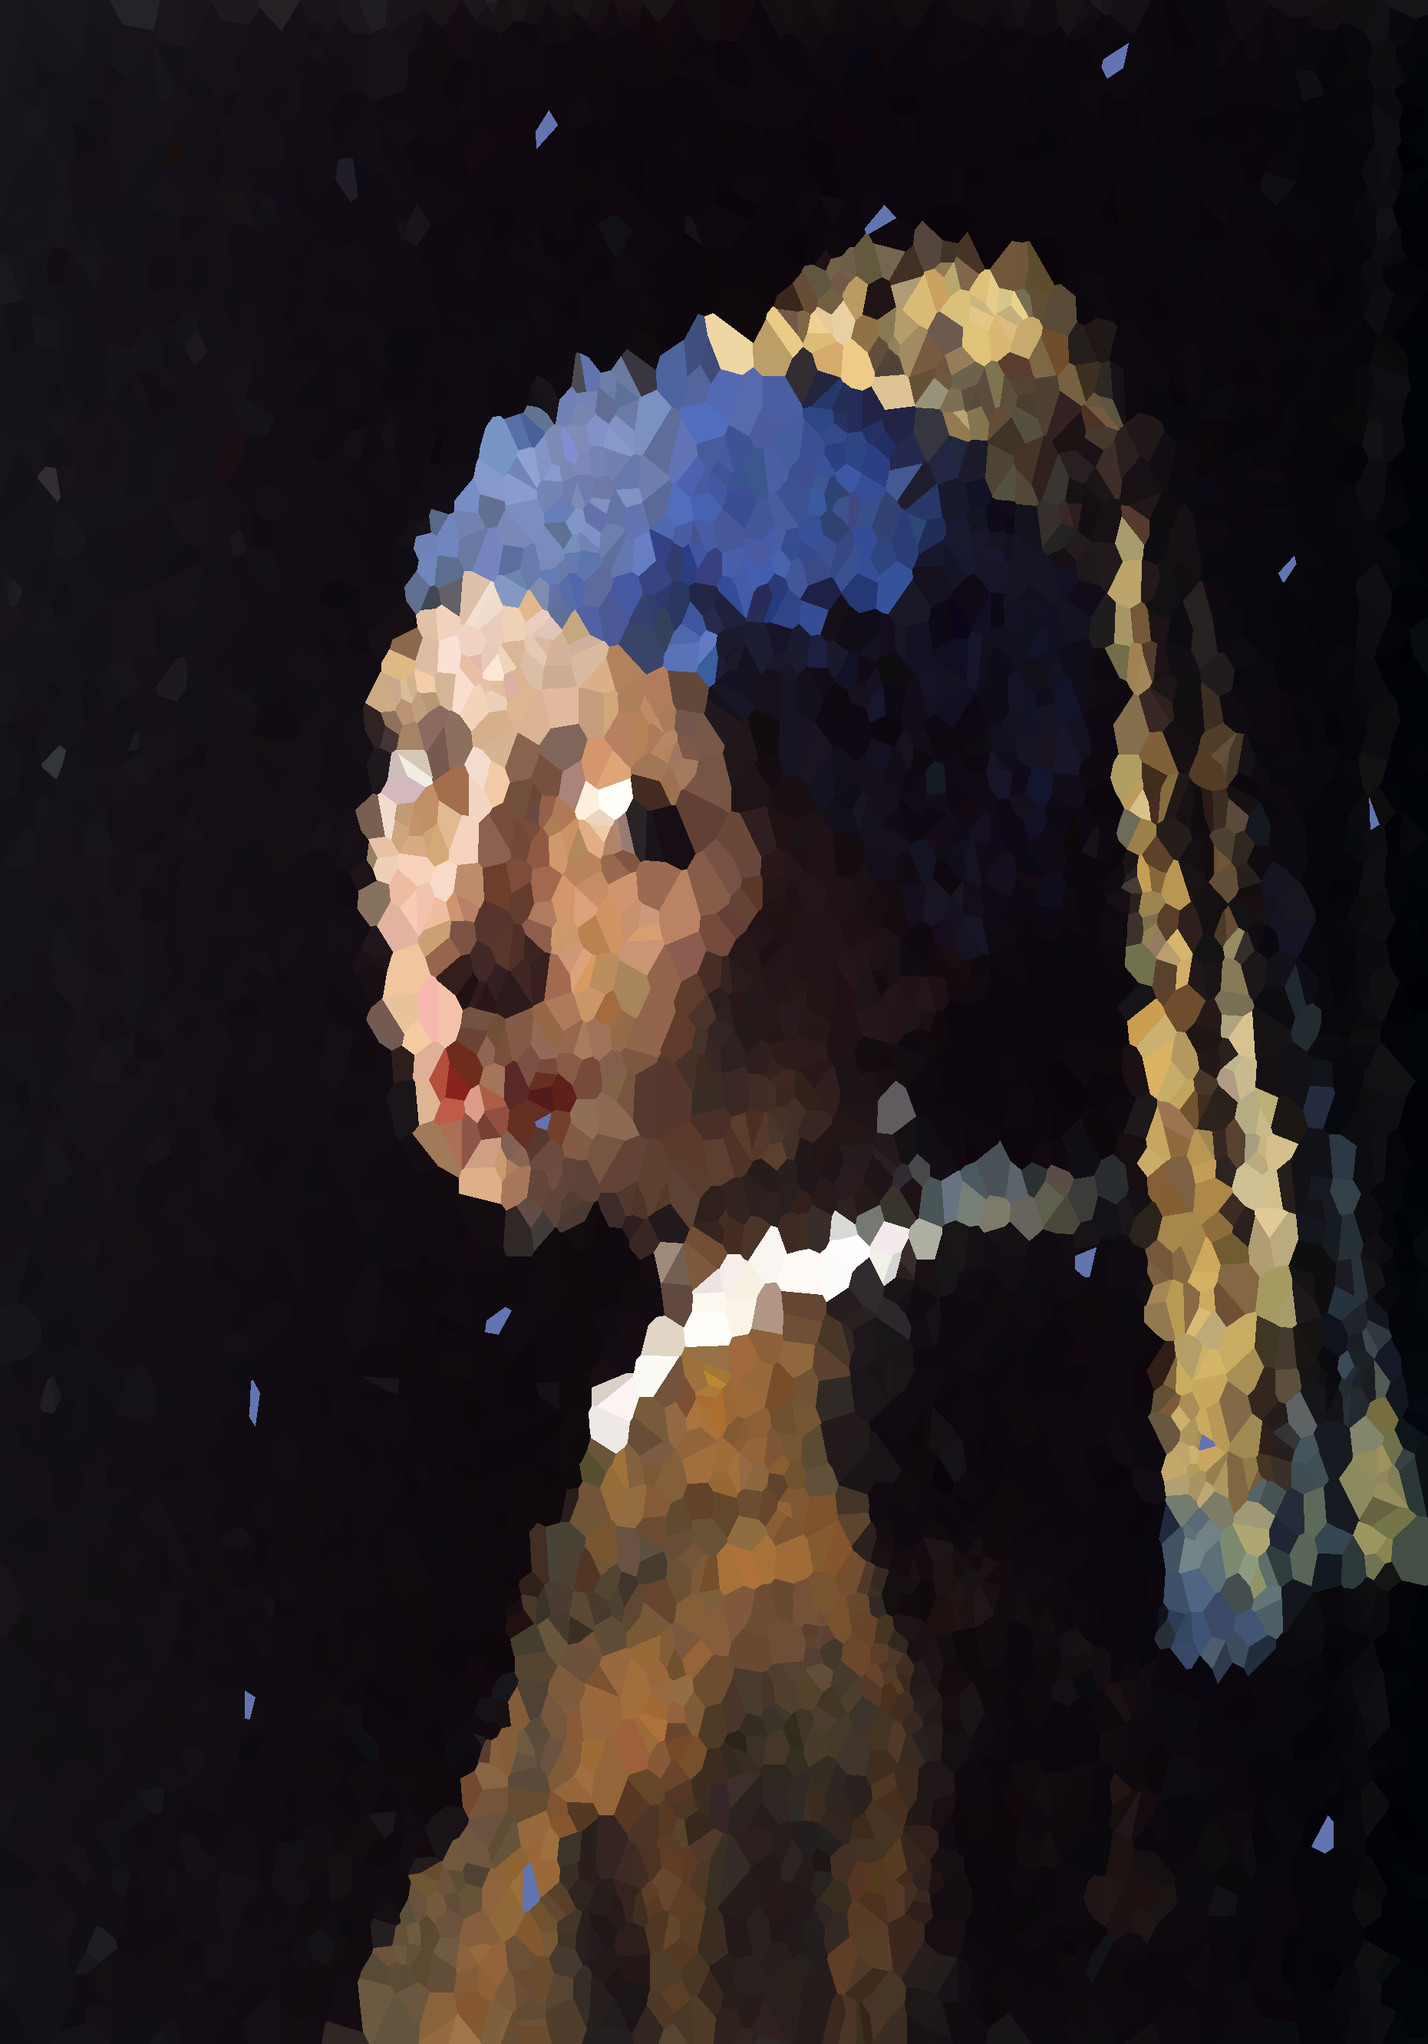
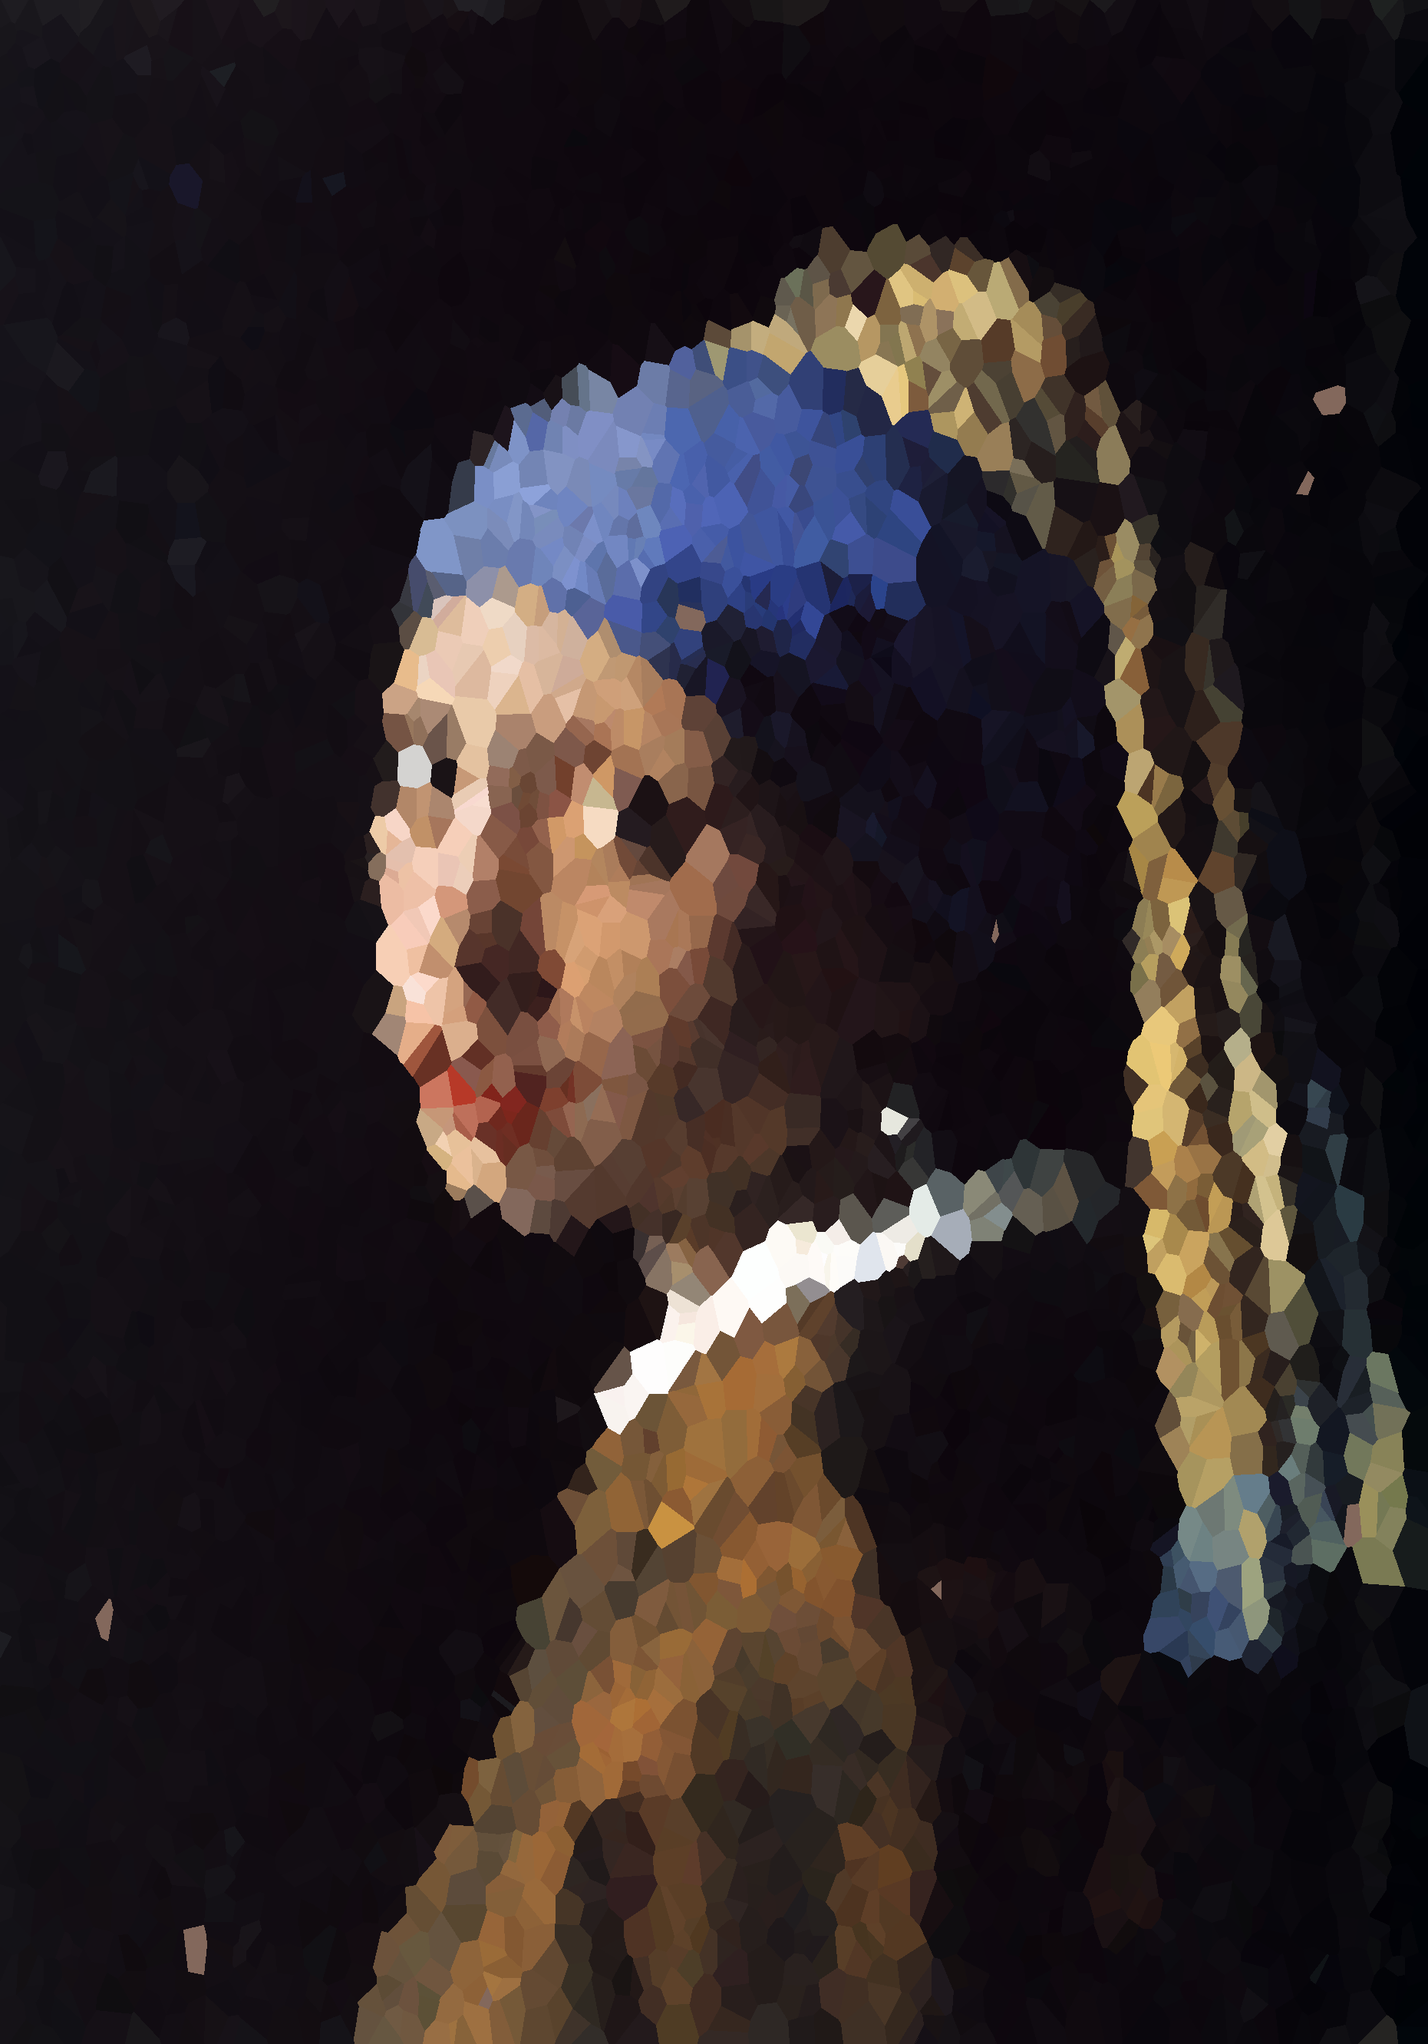
Adding blure mechanism.

diff --git a/voronoiVideo.py b/voronoiVideo.py
@@ -43,7 +43,45 @@ class VoronoiImage():
         return inside
 
 
-    def generate(image, points, saveInDirectory: bool = False, outputDirectoryPath: str = None) -> np.ndarray:
+    def __checkBluringKernelSizeCorrectness(bluringKernelSize, imageSize):
+        allCorrect = True
+
+        if bluringKernelSize == None:
+            pass
+        elif isinstance(bluringKernelSize, int):
+            if bluringKernelSize < 3:
+                allCorrect = False
+                print("Invorrect bluringKernelSize value. Value must be positive odd int number greater than 1")
+            elif bluringKernelSize % 2 == 0:
+                allCorrect = False
+                print("Invorrect bluringKernelSize value. Value must be odd.")
+            elif bluringKernelSize >= min(imageSize):
+                allCorrect = False
+                print("Incorrect bluringKernelSize value. Value must be smaller than smaller side of image.")
+        elif isinstance(bluringKernelSize, str):
+            if bluringKernelSize.lower() == 'auto':
+                kernalSize = min(imageSize) // 200 # 200 is some value regulated kernelSize depends of image shape
+                if kernalSize % 2 == 0:
+                    kernalSize += 1
+            else:
+                allCorrect = False
+                print("""Incorrect bluringKernelSize data type. Only positive
+                         odd int values greater than 1 and smaller than smaller
+                         side of image, or None value if you don't wont to use
+                         bluring, or 'auto' value if you want to automaticly
+                         set the kernelSize.""")
+        else:
+            allCorrect = False
+            print("""Incorrect bluringKernelSize data type. Only positive
+                     odd int values greater than 1 and smaller than smaller
+                     side of image, or None value if you don't wont to use
+                     bluring, or 'auto' value if you want to automaticly
+                     set the kernelSize.""")
+
+        return allCorrect
+
+
+    def generate(image, points, saveInDirectory: bool = False, outputDirectoryPath: str = None, bluringKernelSize = 'auto') -> np.ndarray:
         """
         ### Parameters
         `image`: Array of image. Only list, tuple np.ndarray or string with path to image. Shape of image 
@@ -52,6 +90,14 @@ class VoronoiImage():
         `points`: Array of points with shape (numberOfPoints, 2). Correct data types is list, tuple or 
         np.ndarry. Or int value with number of random points.
 
+        `saveInDirectory`: Value that decides if you want to save this photo. Only boolean values.
+
+        `outputDirectoryPath`: Path to the folder where you want to save the file. Only string values.
+
+        `bluringKernelSize`: Size of kernel (length of filter side) using to bluring image before generating 
+        voronoi diagram. Only positive odd int values greater than 1 and smaller than smaller side of image, 
+        or None value if you don't wont to use bluring, or 'auto' value if you want to automaticly set the 
+        kernelSize.
 
         ### Returns
         out: np.ndarray
@@ -63,6 +109,7 @@ class VoronoiImage():
         allCorrect = True
         fileName = ''
         pointsLen = 1
+        kernalSize = 3
 
         # image
         if isinstance(image, str):
@@ -73,13 +120,11 @@ class VoronoiImage():
                 allCorrect = False
                 print('This file does not exist.')
                 print(e)
-
         elif isinstance(image, np.ndarray):
             if not (len(image.shape) == 2 or len(image.shape) == 3):
                 allCorrect = False
                 print("""Incorrect image shape. Correct shape is (xSize, ySize, channels)
                         or (xSize, ySize) in one channel case.""")
-
         elif isinstance(image, list) or isinstance(image, tuple):
             image = np.array(image)
             if not (len(image.shape) == 2 or len(image.shape) == 3):
@@ -91,33 +136,34 @@ class VoronoiImage():
             print("Incorrect image data type. Only list, tuple, np.ndarray or string with path do image.")
 
         # points
-        if isinstance(points, list) or isinstance(points, tuple) or isinstance(points, np.ndarray):
-            if not isinstance(points, np.ndarray):
-                points = np.array(points)
+        if allCorrect:
+            if isinstance(points, list) or isinstance(points, tuple) or isinstance(points, np.ndarray):
+                if not isinstance(points, np.ndarray):
+                    points = np.array(points)
 
-            if not (len(points.shape) == 2 and points.shape[1] == 2):
-                allCorrect = False
-                print("Incorrect points shape. Correct shape is (nPoints, 2). second")
-        elif isinstance(points, int):
-            if points > 1:
-                points = np.random.random((points, 2))
+                if not (len(points.shape) == 2 and points.shape[1] == 2):
+                    allCorrect = False
+                    print("Incorrect points shape. Correct shape is (nPoints, 2). second")
+            elif isinstance(points, int):
+                if points > 1:
+                    points = np.random.random((points, 2))
+                else:
+                    allCorrect = False
+                    print("Incorrect nPoints value. nPoints must be greater or equal than 2.")
             else:
                 allCorrect = False
-                print("Incorrect nPoints value. nPoints must be greater or equal than 2.")
-
-        else:
-            allCorrect = False
-            print("""Incorrect points data type. Only list, 
-                     tuple or np.array with points coodinations 
-                     or int value with number of random points.""")
+                print("""Incorrect points data type. Only list, 
+                        tuple or np.array with points coodinations 
+                        or int value with number of random points.""")
 
         if allCorrect:
             pointsLen = len(points)
 
         # saveInDirectory
-        if not isinstance(saveInDirectory, bool):
-            allCorrect = False
-            print("Incorrect saveInDirectory value. Only bool.")
+        if allCorrect:
+            if not isinstance(saveInDirectory, bool):
+                allCorrect = False
+                print("Incorrect saveInDirectory value. Only bool.")
 
         # outputDirectory
         if allCorrect:
@@ -130,6 +176,10 @@ class VoronoiImage():
             else:
                 allCorrect = False
                 print("Incorrect outputDirectoryPath data type. Only string with path to directory.")
+
+        # bluringKernelSize
+        if allCorrect:
+            allCorrect = VoronoiImage.__checkBluringKernelSizeCorrectness(bluringKernelSize, image.shape)
 
         if allCorrect:
             # Params
@@ -166,6 +216,10 @@ class VoronoiImage():
             ver[0] = ver[0] * (size[0] - 1)
             ver[1] = ver[1] * (size[1] - 1)
             ver = ver.transpose()
+
+            # Blurring
+            kernel = np.ones((kernalSize, kernalSize),np.float32) / (kernalSize**2)
+            image = cv.filter2D(image, -1, kernel)
 
             # Colors
             colors = []
@@ -268,7 +322,7 @@ class VoronoiVideo():
             print(second, end='')
 
 
-    def generate(videoPath, nPoints: int = 1000, outputDirectoryPath: str = None, outputFrameRate: int = None, frameCounting = True):
+    def generate(videoPath, nPoints: int = 1000, outputDirectoryPath: str = None, outputFrameRate: int = None, frameCounting = True, bluringKernelSize = 'auto'):
         """
         ### Parameters
         `videoPath`: Path to video. Only string values.
@@ -283,6 +337,11 @@ class VoronoiVideo():
         `outputFrameRate`: Frame per seconds (FPS) in output video. Only int or float values.
 
         `frameCounting`: Displaying the number of frames in the console. Only bool values.
+
+        `bluringKernelSize`: Size of kernel (length of filter side) using to bluring all of frames before 
+        generating voronoi diagram. Only positive odd int values greater than 1 and smaller than smaller 
+        side of image, or None value if you don't wont to use bluring, or 'auto' value if you want to 
+        automaticly set the kernelSize.
 
         ### Returns
         out: video in .mp4 data type
@@ -332,90 +391,97 @@ class VoronoiVideo():
             else:
                 allCorrect = False
                 print("Incorrect outputFps value. Only positive int or float values.")
-        
-
-        # GENERATING
-        listOfFrames = []
-        listOfVoronoiFrames = []
 
         # importing video
-        capture = cv.VideoCapture(videoPath)
+        if allCorrect:
+            capture = cv.VideoCapture(videoPath)
 
-        # converter calculeting
-        fps = int(round(capture.get(cv.CAP_PROP_FPS), 0))
-        if outputFrameRate is None:
-            outputFrameRate = fps
-        converter = max(fps / outputFrameRate, 1)
+        # bluringKernelSize
+        if allCorrect:
+            width = capture.get(cv.CAP_PROP_FRAME_WIDTH)
+            height = capture.get(cv.CAP_PROP_FRAME_HEIGHT)
+            allCorrect = VoronoiImage.__checkBluringKernelSizeCorrectness(bluringKernelSize, [width, height])
 
-        # reading frames
-        index = 0
-        while True:
-            isTrue, frame = capture.read()
-            if not isTrue:
-                break
-            if index % converter < 1:
-                listOfFrames.append(frame)
-            index += 1
+        # GENERATING
+        if allCorrect:
+            listOfFrames = []
+            listOfVoronoiFrames = []
 
-        # release memory space
-        capture.release()
+            # converter calculeting
+            fps = int(round(capture.get(cv.CAP_PROP_FPS), 0))
+            if outputFrameRate is None:
+                outputFrameRate = fps
+            converter = max(fps / outputFrameRate, 1)
 
-        # conveting all frames to voronoi
-        listLong = len(listOfFrames)
-        startTime = time.time()
-        startFrameTime = time.time()
-        for i, frame in enumerate(listOfFrames):
-            if frameCounting:
-                print("Frame: " + str(i+1) + '/' + str(listLong), end=' | ')
-                print(str(round(((i+1) / listLong * 100), 1)) + '%', end='')
+            # reading frames
+            index = 0
+            while True:
+                isTrue, frame = capture.read()
+                if not isTrue:
+                    break
+                if index % converter < 1:
+                    listOfFrames.append(frame)
+                index += 1
 
-                elapsedTime = time.time() - startFrameTime
-                elapsedTime = elapsedTime * (listLong - (i+1))
+            # release memory space
+            capture.release()
 
-                if i+1 == listLong:
-                    print('', end='\r')
-                    print(" " * 75, end='\r')
-                    print("Done in ", end='')
-                    VoronoiVideo.__printEstimatedTime(time.time() - startTime, withStartTime=True)
-                    print()
+            # conveting all frames to voronoi
+            listLong = len(listOfFrames)
+            startTime = time.time()
+            startFrameTime = time.time()
+            for i, frame in enumerate(listOfFrames):
+                if frameCounting:
+                    print("Frame: " + str(i+1) + '/' + str(listLong), end=' | ')
+                    print(str(round(((i+1) / listLong * 100), 1)) + '%', end='')
+
+                    elapsedTime = time.time() - startFrameTime
+                    elapsedTime = elapsedTime * (listLong - (i+1))
+
+                    if i+1 == listLong:
+                        print('', end='\r')
+                        print(" " * 75, end='\r')
+                        print("Done in ", end='')
+                        VoronoiVideo.__printEstimatedTime(time.time() - startTime, withStartTime=True)
+                        print()
+                    else:
+                        VoronoiVideo.__printEstimatedTime(elapsedTime)
+                        print('', end='\r')
+                        
+                    startFrameTime = time.time()
+
+                listOfVoronoiFrames.append(VoronoiImage.generate(frame, nPoints, bluringKernelSize=bluringKernelSize))
+
+            # deleting unnecessary list
+            del(listOfFrames)
+            
+            # generating file name
+            outputFileName = outputDirectoryPath
+            if outputFileName != '':
+                if not (outputFileName[-1] == '/' or outputFileName[-1] == '\\'):
+                    outputFileName += '/'
+            outputFileName += os.path.basename(videoPath).split('.')[0]
+            outputFileName += '_' + str(outputFrameRate) + "fps_" + str(nPoints) + "nPts"
+
+            # checing if file with outputFileName exist
+            iter = -1
+            while True:
+                iter += 1
+                if iter == 0:
+                    if not os.path.isfile(outputFileName + ".mp4"):
+                        outputFileName += ".mp4"
+                        break
                 else:
-                    VoronoiVideo.__printEstimatedTime(elapsedTime)
-                    print('', end='\r')
-                    
-                startFrameTime = time.time()
+                    if not os.path.isfile(outputFileName + "(" + str(iter+1) + ")" + ".mp4"):
+                        outputFileName += "({}).mp4".format(str(int(iter+1)))
+                        break
 
-            listOfVoronoiFrames.append(VoronoiImage.generate(frame, nPoints))
+            # video params
+            codec = cv.VideoWriter_fourcc('m', 'p', '4', 'v')
+            resolution = (listOfVoronoiFrames[0].shape[1], listOfVoronoiFrames[0].shape[0])
 
-        # deleting unnecessary list
-        del(listOfFrames)
-        
-        # generating file name
-        outputFileName = outputDirectoryPath
-        if outputFileName != '':
-            if not (outputFileName[-1] == '/' or outputFileName[-1] == '\\'):
-                outputFileName += '/'
-        outputFileName += os.path.basename(videoPath).split('.')[0]
-        outputFileName += '_' + str(outputFrameRate) + "fps_" + str(nPoints) + "nPts"
-
-        # checing if file with outputFileName exist
-        iter = -1
-        while True:
-            iter += 1
-            if iter == 0:
-                if not os.path.isfile(outputFileName + ".mp4"):
-                    outputFileName += ".mp4"
-                    break
-            else:
-                if not os.path.isfile(outputFileName + "(" + str(iter+1) + ")" + ".mp4"):
-                    outputFileName += "({}).mp4".format(str(int(iter+1)))
-                    break
-
-        # video params
-        codec = cv.VideoWriter_fourcc('m', 'p', '4', 'v')
-        resolution = (listOfVoronoiFrames[0].shape[1], listOfVoronoiFrames[0].shape[0])
-
-        # exporting video
-        videoOutput = cv.VideoWriter(outputFileName, codec, outputFrameRate, resolution)
-        for frame in listOfVoronoiFrames:
-            videoOutput.write(frame)
-        videoOutput.release()
+            # exporting video
+            videoOutput = cv.VideoWriter(outputFileName, codec, outputFrameRate, resolution)
+            for frame in listOfVoronoiFrames:
+                videoOutput.write(frame)
+            videoOutput.release()

diff --git a/README.md b/README.md
@@ -18,6 +18,12 @@ and another set parameters:
 
 `points`: Array of points with shape (numberOfPoints, 2). Correct data types is list, tuple or np.ndarry. Or int value with number of random points.
 
+`saveInDirectory`: Value that decides if you want to save this photo. Only boolean values.
+
+`outputDirectoryPath`: Path to the folder where you want to save the file. Only string values.
+
+`bluringKernelSize`: Size of kernel (length of filter side) using to bluring image before generating voronoi diagram. Only positive odd int values greater than 1 and smaller than smaller side of image, or None value if you don't wont to use bluring, or 'auto' value if you want to automaticly set the kernelSize.
+
 
 ### Generating Voronoi Video
 <span style="color:#9579c0">from</span> <span style="color:#4ec9b0">voronoiVideo</span> <span style="color:#9579c0">import</span> <span style="color:#4ec9b0">VoronoiVideo</span>
@@ -33,6 +39,8 @@ and another set parameters:
 `outputFrameRate`: Frame per seconds (FPS) in output video. Only int or float values.
 
 `frameCounting`: Displaying the number of frames in the console. Only bool values.
+
+`bluringKernelSize`: Size of kernel (length of filter side) using to bluring all of frames before generating voronoi diagram. Only positive odd int values greater than 1 and smaller than smaller side of image, or None value if you don't wont to use bluring, or 'auto' value if you want to automaticly set the kernelSize.
 
 
 ### Results
